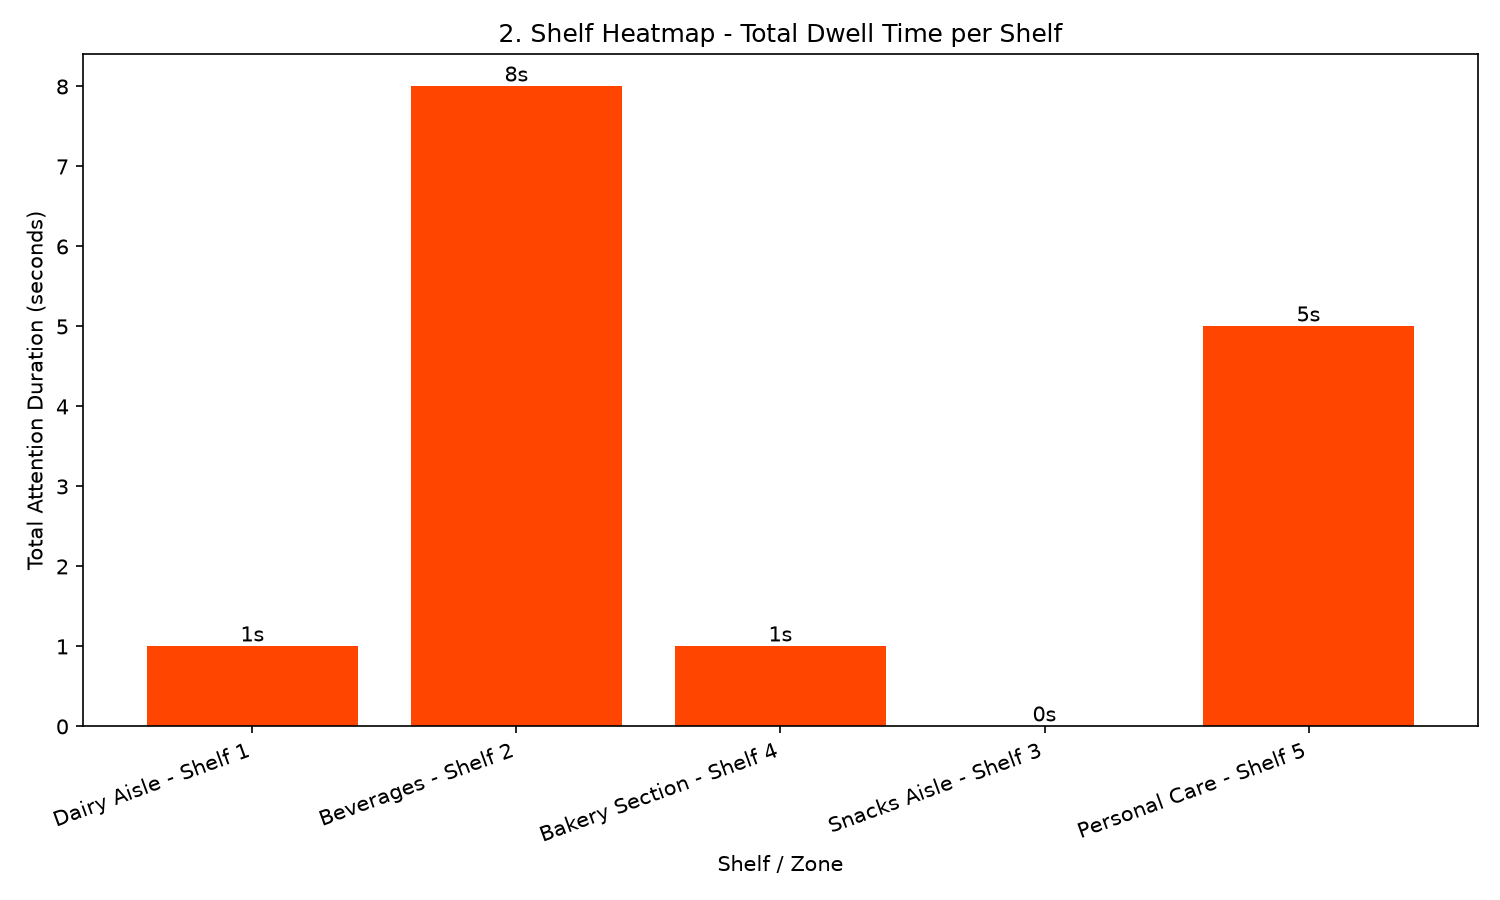
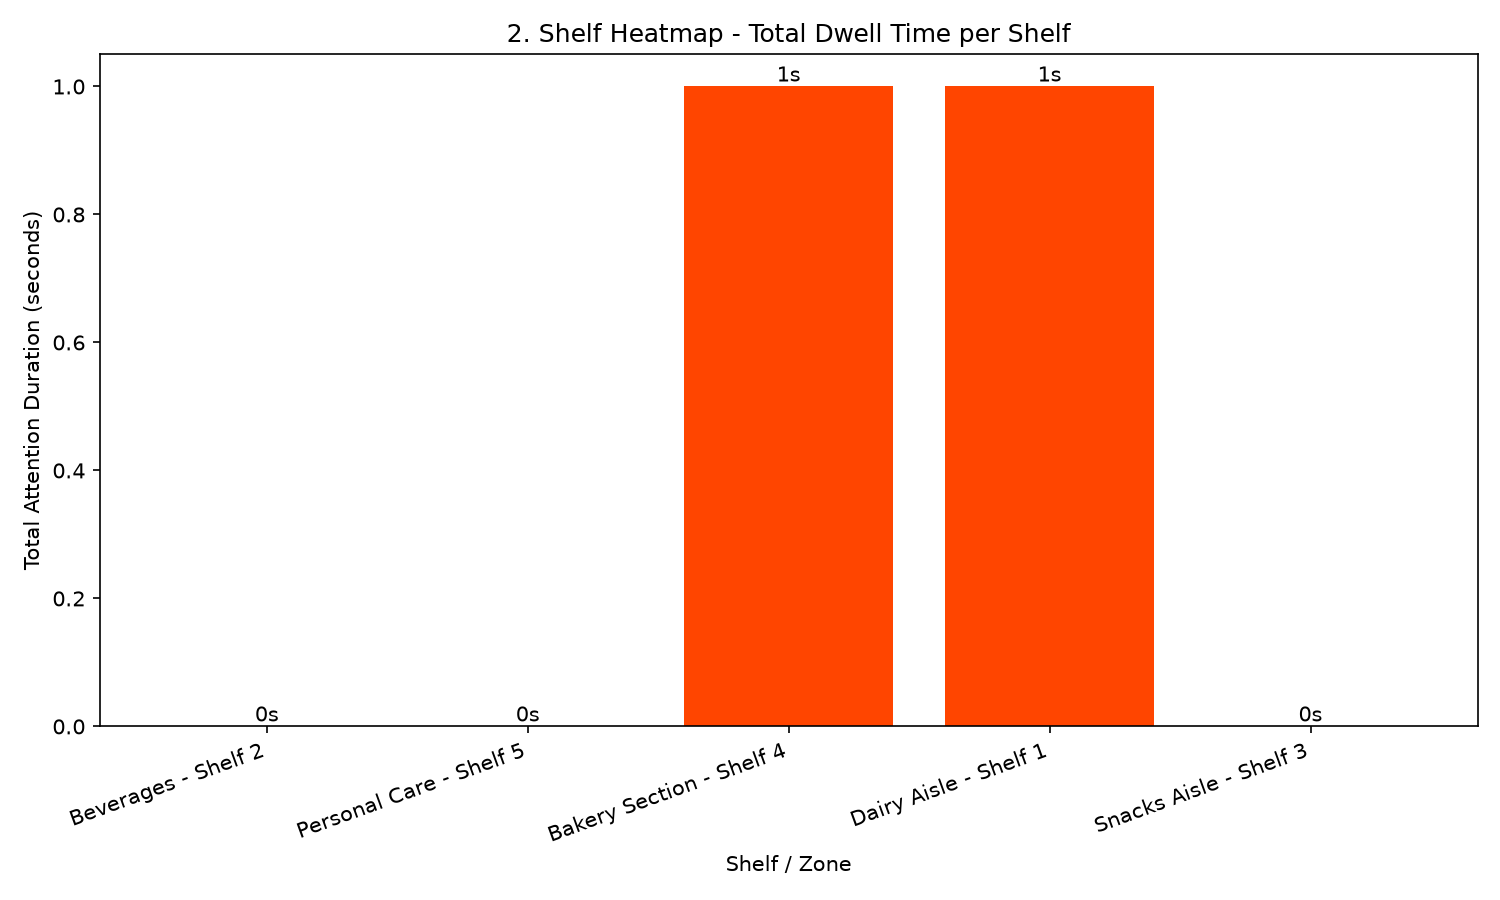
fixed the attention gap

diff --git a/Backend/main.py b/Backend/main.py
@@ -574,6 +574,8 @@ def analyze_video_full(file: UploadFile = File(...), clear_previous_data: bool =
         zone_to_shelf = {"Zone 0": "Zone A", "Zone 1": "Zone B", "Zone 2": "Zone C"}
 
     yolo_model = YOLO("yolov8n.pt")
+    face_cascade = cv2.CascadeClassifier('haarcascade_frontalface_default.xml')
+    eye_cascade = cv2.CascadeClassifier('haarcascade_eye.xml')
 
     cap = cv2.VideoCapture(file_path)
     if not cap.isOpened():
@@ -608,6 +610,10 @@ def analyze_video_full(file: UploadFile = File(...), clear_previous_data: bool =
 
         results = yolo_model.track(frame_small, persist=True, verbose=False, classes=[0])
 
+        # Only run face/eye detection every 5th processed frame (real detection, but not every frame, for speed)
+        run_attention_check = (frame_num // 3) % 5 == 0
+        gray_full = cv2.cvtColor(frame, cv2.COLOR_BGR2GRAY) if run_attention_check else None
+
         if results[0].boxes.id is not None:
             for box, track_id in zip(results[0].boxes.xyxy, results[0].boxes.id):
                 x1s, y1s, x2s, y2s = [int(v) for v in box.tolist()]
@@ -617,8 +623,19 @@ def analyze_video_full(file: UploadFile = File(...), clear_previous_data: bool =
                 track_id = int(track_id)
                 zone = get_zone(center_x)
 
-                # Simplified attention for dataset video speed
-                attention_status = "Attentive"
+                # Real face/eye attention detection, run periodically for speed
+                attention_status = "Attentive"  # default carries forward between checks
+                if run_attention_check and gray_full is not None:
+                    person_region = gray_full[max(0, y1):y2, max(0, x1):x2]
+                    if person_region.size > 0:
+                        attention_status = "Looking Away"
+                        faces = face_cascade.detectMultiScale(person_region, scaleFactor=1.1, minNeighbors=4, minSize=(20, 20))
+                        for (fx, fy, fw, fh) in faces:
+                            face_gray = person_region[fy:fy + fh, fx:fx + fw]
+                            eyes = eye_cascade.detectMultiScale(face_gray, scaleFactor=1.1, minNeighbors=3)
+                            if len(eyes) >= 1:
+                                attention_status = "Attentive"
+                            break
 
                 all_positions.append(models.PositionPoint(person_track_id=track_id, x=int(center_x), y=int(center_y)))
 
